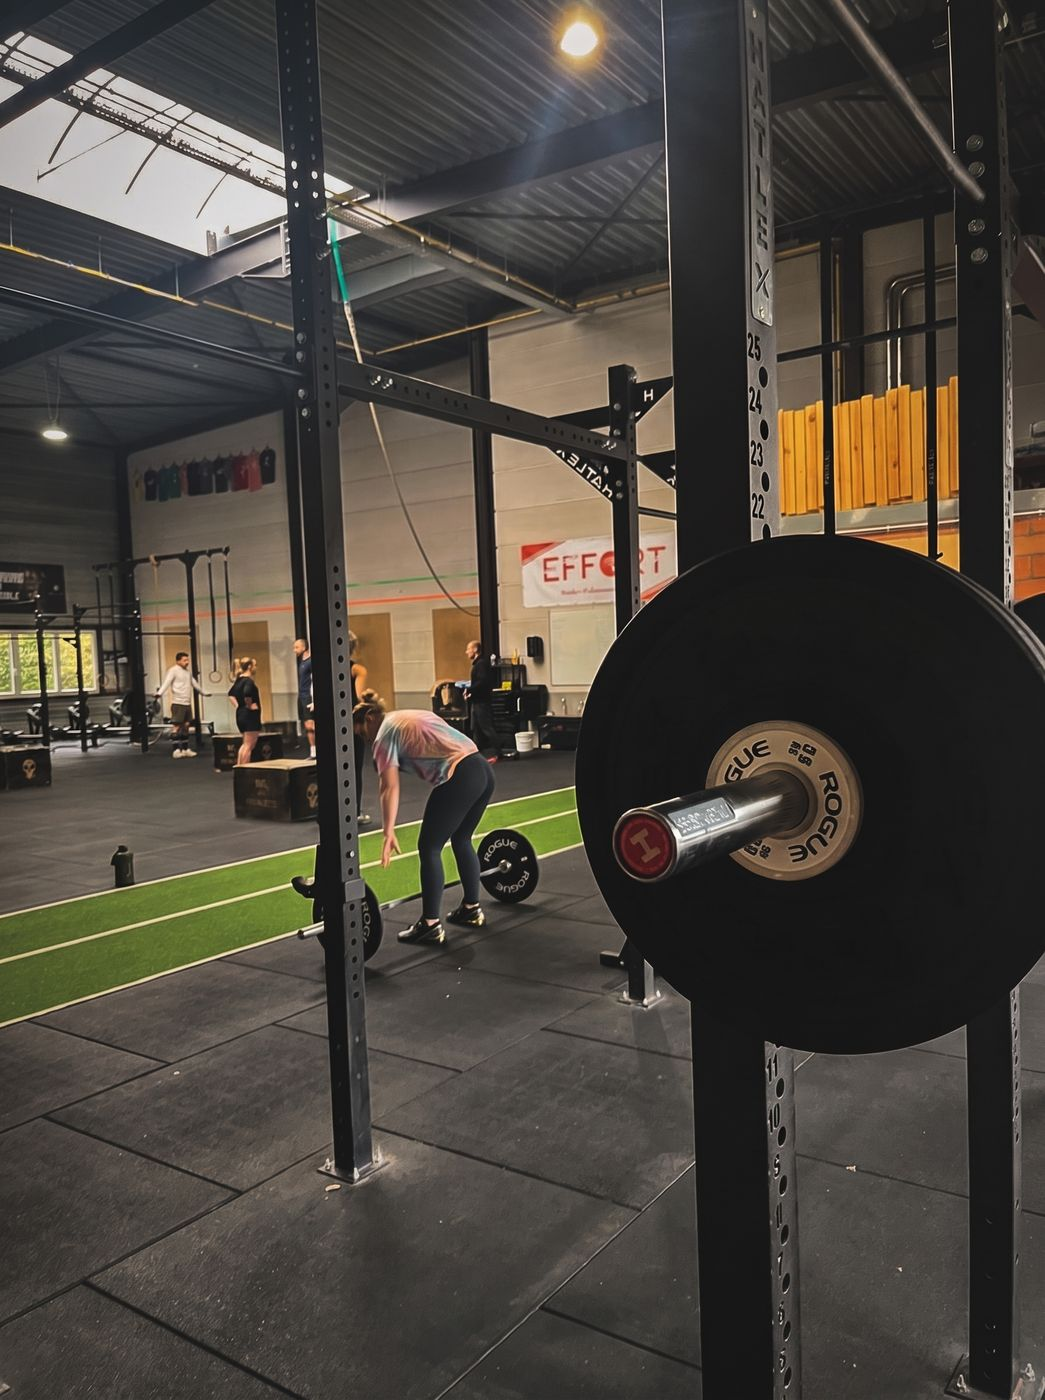
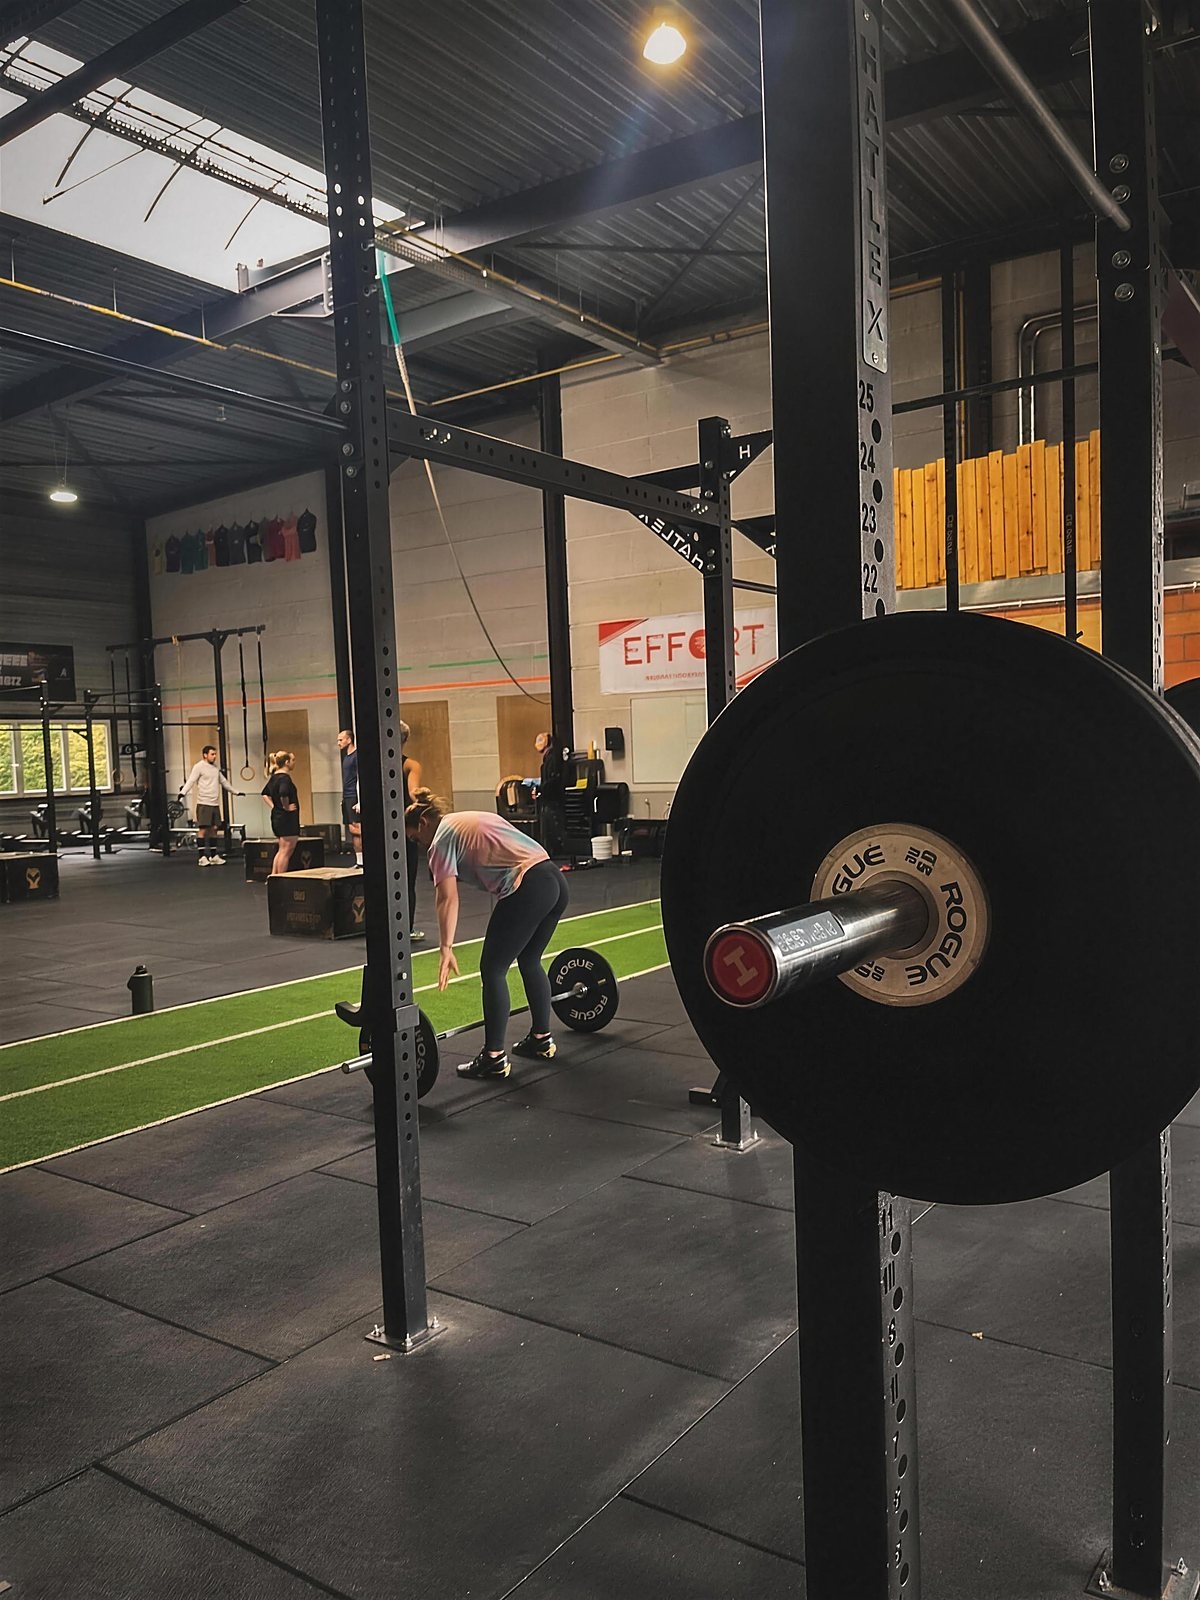
Foto's naar 4K-upscale: scherpte van een professionele camera
Alle 10 gegradeerde foto's via Higgsfield (ByteDance upscaler) naar 4096px
geüpscaled en teruggebracht naar grotere, verscherpte web-formaten
(hero 2560w, portret 1600w, unsharp mask, progressive JPEG q84).
Grading/look ongewijzigd. Cache-bust ?v=3 → ?v=4.

diff --git a/index.html b/index.html
@@ -152,8 +152,8 @@
     <section class="hero">
       <div class="hero__media">
         <picture>
-          <source media="(min-width: 880px)" srcset="assets/img/hero-desktop.jpg?v=3" />
-          <img src="assets/img/hero-mobile.jpg?v=3" alt="Leden trainen aan het rig bij Effort in Kapellen" fetchpriority="high" />
+          <source media="(min-width: 880px)" srcset="assets/img/hero-desktop.jpg?v=4" />
+          <img src="assets/img/hero-mobile.jpg?v=4" alt="Leden trainen aan het rig bij Effort in Kapellen" fetchpriority="high" />
         </picture>
       </div>
       <div class="hero__inner">
@@ -192,7 +192,7 @@
           </div>
           <div class="media-frame media-frame--wide reveal" data-d="1">
             <!-- Vervang door een échte foto van de box / community -->
-            <img src="assets/img/gym.jpg?v=3" alt="De trainingsvloer van Effort België" loading="lazy" />
+            <img src="assets/img/gym.jpg?v=4" alt="De trainingsvloer van Effort België" loading="lazy" />
             <span class="media-frame__tag">De box · Kapellen</span>
           </div>
         </div>
@@ -216,21 +216,21 @@
         </div>
         <div class="grid grid--3">
           <article class="card offer reveal">
-            <div class="offer__img"><img src="assets/img/class-group.jpg?v=3" alt="Groepsles in volle gang" loading="lazy" /></div>
+            <div class="offer__img"><img src="assets/img/class-group.jpg?v=4" alt="Groepsles in volle gang" loading="lazy" /></div>
             <div class="offer__body">
               <h3>Groeps<span>lessen</span></h3>
               <p>Bewegen, sterker worden en op een gezonde manier grenzen verleggen. Constant gevarieerde, functionele bewegingen onder hoge intensiteit — in groepen van max. 10, individueel aangepast.</p>
             </div>
           </article>
           <article class="card offer reveal" data-d="1">
-            <div class="offer__img"><img src="assets/img/barbell.jpg?v=3" alt="Geladen barbell op de gym vloer" loading="lazy" /></div>
+            <div class="offer__img"><img src="assets/img/barbell.jpg?v=4" alt="Geladen barbell op de gym vloer" loading="lazy" /></div>
             <div class="offer__body">
               <h3>Open <span>Gym</span></h3>
               <p>Liever solo? Train vrij tijdens de open gym uren, met dagelijkse toegang. Met of zonder persoonlijk programma — helemaal jouw personal effort.</p>
             </div>
           </article>
           <article class="card offer reveal" data-d="2">
-            <div class="offer__img"><img src="assets/img/grip.jpg?v=3" alt="Leden aan de pull-up bar bij Effort" loading="lazy" /></div>
+            <div class="offer__img"><img src="assets/img/grip.jpg?v=4" alt="Leden aan de pull-up bar bij Effort" loading="lazy" /></div>
             <div class="offer__body">
               <h3>Personal <span>Training</span></h3>
               <p>1-op-1 begeleiding door onze specialisten. In samenwerking met kinepraktijk <strong>Level up</strong> ook voor revalidatie na blessures.</p>
@@ -268,7 +268,7 @@
     <section class="section">
       <div class="container">
         <div class="cta-band reveal">
-          <div class="cta-band__bg"><img src="assets/img/team.jpg?v=3" alt="" loading="lazy" /></div>
+          <div class="cta-band__bg"><img src="assets/img/team.jpg?v=4" alt="" loading="lazy" /></div>
           <div class="cta-band__inner">
             <p class="eyebrow">It's a team effort</p>
             <h2 class="mt-s">Een plek waar iedereen <span class="text-red">zichzelf</span> kan zijn</h2>
@@ -338,7 +338,7 @@
     <section class="section">
       <div class="container">
         <div class="cta-band reveal">
-          <div class="cta-band__bg"><img src="assets/img/kettlebells.jpg?v=3" alt="" loading="lazy" /></div>
+          <div class="cta-band__bg"><img src="assets/img/kettlebells.jpg?v=4" alt="" loading="lazy" /></div>
           <div class="cta-band__inner">
             <p class="eyebrow">Get started</p>
             <h2 class="mt-s">Ben jij er <span class="text-red">klaar</span> voor?</h2>

diff --git a/aanbod.html b/aanbod.html
@@ -96,7 +96,7 @@
 
   <main>
     <section class="page-hero">
-      <div class="page-hero__bg"><img src="assets/img/class-group.jpg?v=3" alt="" /></div>
+      <div class="page-hero__bg"><img src="assets/img/class-group.jpg?v=4" alt="" /></div>
       <div class="container">
         <p class="eyebrow">Aanbod</p>
         <h1>Train op <br /><span class="text-red">jouw</span> manier</h1>
@@ -109,7 +109,7 @@
       <div class="container">
         <div class="split">
           <div class="media-frame media-frame--tall reveal">
-            <img src="assets/img/class-group.jpg?v=3" alt="Groepsles in volle gang" loading="lazy" />
+            <img src="assets/img/class-group.jpg?v=4" alt="Groepsles in volle gang" loading="lazy" />
             <span class="media-frame__tag">Groepslessen · max. 10</span>
           </div>
           <div class="reveal" data-d="1">
@@ -137,7 +137,7 @@
             <a class="link-arrow mt-m" href="prijzen.html">Bekijk de Open Gym formule <span>→</span></a>
           </div>
           <div class="media-frame media-frame--tall reveal" data-d="1">
-            <img src="assets/img/barbell.jpg?v=3" alt="Geladen barbell in de box" loading="lazy" />
+            <img src="assets/img/barbell.jpg?v=4" alt="Geladen barbell in de box" loading="lazy" />
             <span class="media-frame__tag">Open Gym · dagelijks</span>
           </div>
         </div>
@@ -149,7 +149,7 @@
       <div class="container">
         <div class="split">
           <div class="media-frame media-frame--tall reveal">
-            <img src="assets/img/grip.jpg?v=3" alt="Leden aan de pull-up bar bij Effort" loading="lazy" />
+            <img src="assets/img/grip.jpg?v=4" alt="Leden aan de pull-up bar bij Effort" loading="lazy" />
             <span class="media-frame__tag">Personal Training · 1-op-1</span>
           </div>
           <div class="reveal" data-d="1">
@@ -165,7 +165,7 @@
 
     <!-- SOORTEN LESSEN -->
     <section class="section" id="lestypes" style="position:relative; overflow:hidden; background:var(--ink-1); border-top:1px solid var(--line);">
-      <div class="page-hero__bg" style="opacity:.12; z-index:0;"><img src="assets/img/chalk.jpg?v=3" alt="" loading="lazy" /></div>
+      <div class="page-hero__bg" style="opacity:.12; z-index:0;"><img src="assets/img/chalk.jpg?v=4" alt="" loading="lazy" /></div>
       <div class="container" style="position:relative; z-index:2;">
         <div class="section-head reveal">
           <p class="eyebrow">Soorten lessen</p>
@@ -206,7 +206,7 @@
     <section class="section section--tight">
       <div class="container">
         <div class="cta-band reveal">
-          <div class="cta-band__bg"><img src="assets/img/kettlebells.jpg?v=3" alt="" loading="lazy" /></div>
+          <div class="cta-band__bg"><img src="assets/img/kettlebells.jpg?v=4" alt="" loading="lazy" /></div>
           <div class="cta-band__inner">
             <p class="eyebrow">Get started</p>
             <h2 class="mt-s">Probeer het gewoon eens</h2>

diff --git a/crossfit-wuustwezel.html b/crossfit-wuustwezel.html
@@ -96,7 +96,7 @@
 
   <main>
     <section class="page-hero">
-      <div class="page-hero__bg"><img src="assets/img/gym.jpg?v=3" alt="" /></div>
+      <div class="page-hero__bg"><img src="assets/img/gym.jpg?v=4" alt="" /></div>
       <div class="container">
         <p class="eyebrow">Regio · Wuustwezel</p>
         <h1>CrossFit <br /><span class="text-red">vlakbij Wuustwezel</span></h1>
@@ -113,7 +113,7 @@
       <div class="container">
         <div class="split">
           <div class="media-frame media-frame--tall reveal">
-            <img src="assets/img/class-group.jpg?v=3" alt="Groepsles bij Effort, de CrossFit-box op de drempel van Wuustwezel" loading="lazy" />
+            <img src="assets/img/class-group.jpg?v=4" alt="Groepsles bij Effort, de CrossFit-box op de drempel van Wuustwezel" loading="lazy" />
             <span class="media-frame__tag">Effort · Gooreind</span>
           </div>
           <div class="reveal" data-d="1">
@@ -139,7 +139,7 @@
             <a class="link-arrow mt-m" href="get-started.html">Zo verloopt je eerste les <span>→</span></a>
           </div>
           <div class="media-frame media-frame--tall reveal" data-d="1">
-            <img src="assets/img/grip.jpg?v=3" alt="Leden aan de pull-up bar bij Effort" loading="lazy" />
+            <img src="assets/img/grip.jpg?v=4" alt="Leden aan de pull-up bar bij Effort" loading="lazy" />
             <span class="media-frame__tag">Op jouw niveau</span>
           </div>
         </div>

diff --git a/crossfit-kalmthout.html b/crossfit-kalmthout.html
@@ -96,7 +96,7 @@
 
   <main>
     <section class="page-hero">
-      <div class="page-hero__bg"><img src="assets/img/gym.jpg?v=3" alt="" /></div>
+      <div class="page-hero__bg"><img src="assets/img/gym.jpg?v=4" alt="" /></div>
       <div class="container">
         <p class="eyebrow">Regio · Kalmthout</p>
         <h1>CrossFit <br /><span class="text-red">vlakbij Kalmthout</span></h1>
@@ -113,7 +113,7 @@
       <div class="container">
         <div class="split">
           <div class="media-frame media-frame--tall reveal">
-            <img src="assets/img/class-group.jpg?v=3" alt="Groepsles bij Effort, de CrossFit-box vlakbij Kalmthout" loading="lazy" />
+            <img src="assets/img/class-group.jpg?v=4" alt="Groepsles bij Effort, de CrossFit-box vlakbij Kalmthout" loading="lazy" />
             <span class="media-frame__tag">Effort · Gooreind</span>
           </div>
           <div class="reveal" data-d="1">
@@ -139,7 +139,7 @@
             <a class="link-arrow mt-m" href="get-started.html">Zo verloopt je eerste les <span>→</span></a>
           </div>
           <div class="media-frame media-frame--tall reveal" data-d="1">
-            <img src="assets/img/grip.jpg?v=3" alt="Leden aan de pull-up bar bij Effort" loading="lazy" />
+            <img src="assets/img/grip.jpg?v=4" alt="Leden aan de pull-up bar bij Effort" loading="lazy" />
             <span class="media-frame__tag">Op jouw niveau</span>
           </div>
         </div>

diff --git a/crossfit-brasschaat.html b/crossfit-brasschaat.html
@@ -96,7 +96,7 @@
 
   <main>
     <section class="page-hero">
-      <div class="page-hero__bg"><img src="assets/img/gym.jpg?v=3" alt="" /></div>
+      <div class="page-hero__bg"><img src="assets/img/gym.jpg?v=4" alt="" /></div>
       <div class="container">
         <p class="eyebrow">Regio · Brasschaat</p>
         <h1>CrossFit <br /><span class="text-red">voor Brasschaat</span></h1>
@@ -113,7 +113,7 @@
       <div class="container">
         <div class="split">
           <div class="media-frame media-frame--tall reveal">
-            <img src="assets/img/class-group.jpg?v=3" alt="Groepsles bij Effort, de CrossFit-box voor Brasschaat" loading="lazy" />
+            <img src="assets/img/class-group.jpg?v=4" alt="Groepsles bij Effort, de CrossFit-box voor Brasschaat" loading="lazy" />
             <span class="media-frame__tag">Effort · Gooreind</span>
           </div>
           <div class="reveal" data-d="1">
@@ -139,7 +139,7 @@
             <a class="link-arrow mt-m" href="get-started.html">Zo verloopt je eerste les <span>→</span></a>
           </div>
           <div class="media-frame media-frame--tall reveal" data-d="1">
-            <img src="assets/img/grip.jpg?v=3" alt="Leden aan de pull-up bar bij Effort" loading="lazy" />
+            <img src="assets/img/grip.jpg?v=4" alt="Leden aan de pull-up bar bij Effort" loading="lazy" />
             <span class="media-frame__tag">Op jouw niveau</span>
           </div>
         </div>

diff --git a/prijzen.html b/prijzen.html
@@ -102,7 +102,7 @@
 
   <main>
     <section class="page-hero">
-      <div class="page-hero__bg"><img src="assets/img/chalk.jpg?v=3" alt="" /></div>
+      <div class="page-hero__bg"><img src="assets/img/chalk.jpg?v=4" alt="" /></div>
       <div class="container">
         <p class="eyebrow">Prijzen</p>
         <h1>Kies jouw <br /><span class="text-red">effort</span></h1>
@@ -184,7 +184,7 @@
     <section class="section section--tight">
       <div class="container">
         <div class="cta-band reveal">
-          <div class="cta-band__bg"><img src="assets/img/barbell.jpg?v=3" alt="" loading="lazy" /></div>
+          <div class="cta-band__bg"><img src="assets/img/barbell.jpg?v=4" alt="" loading="lazy" /></div>
           <div class="cta-band__inner">
             <p class="eyebrow">Get started</p>
             <h2 class="mt-s">Klaar om te <span class="text-red">starten</span>?</h2>

diff --git a/welkom.html b/welkom.html
@@ -65,7 +65,7 @@
 
   <main>
     <section class="page-hero">
-      <div class="page-hero__bg"><img src="assets/img/class-group.jpg?v=3" alt="" /></div>
+      <div class="page-hero__bg"><img src="assets/img/class-group.jpg?v=4" alt="" /></div>
       <div class="container">
         <p class="eyebrow">Welkom — je bent uitgenodigd</p>
         <h1>Je kreeg een <span class="text-red">gratis les</span> cadeau.</h1>
@@ -115,7 +115,7 @@
       <div class="container">
         <div class="split">
           <div class="media-frame media-frame--tall reveal">
-            <img src="assets/img/gym.jpg?v=3" alt="Trainen bij Effort in Kapellen" loading="lazy" />
+            <img src="assets/img/gym.jpg?v=4" alt="Trainen bij Effort in Kapellen" loading="lazy" />
             <span class="media-frame__tag">Iedereen begint ooit</span>
           </div>
           <div class="reveal" data-d="1">

diff --git a/get-started.html b/get-started.html
@@ -102,7 +102,7 @@
 
   <main>
     <section class="page-hero">
-      <div class="page-hero__bg"><img src="assets/img/kit.jpg?v=3" alt="" /></div>
+      <div class="page-hero__bg"><img src="assets/img/kit.jpg?v=4" alt="" /></div>
       <div class="container">
         <p class="eyebrow">Get started</p>
         <h1>Ben jij er <br /><span class="text-red">klaar</span> voor?</h1>
@@ -134,7 +134,7 @@
       <div class="container">
         <div class="split">
           <div class="media-frame media-frame--tall reveal">
-            <img src="assets/img/kit.jpg?v=3" alt="Samen trainen tijdens een les bij Effort" loading="lazy" />
+            <img src="assets/img/kit.jpg?v=4" alt="Samen trainen tijdens een les bij Effort" loading="lazy" />
             <span class="media-frame__tag">Klaar voor de start</span>
           </div>
           <div class="reveal" data-d="1">

diff --git a/team.html b/team.html
@@ -96,7 +96,7 @@
 
   <main>
     <section class="page-hero">
-      <div class="page-hero__bg"><img src="assets/img/team.jpg?v=3" alt="" /></div>
+      <div class="page-hero__bg"><img src="assets/img/team.jpg?v=4" alt="" /></div>
       <div class="container">
         <p class="eyebrow">Het team</p>
         <h1>Coaches met <br /><span class="text-red">karakter</span></h1>
@@ -201,7 +201,7 @@
     <section class="section section--tight">
       <div class="container">
         <div class="cta-band reveal">
-          <div class="cta-band__bg"><img src="assets/img/class-group.jpg?v=3" alt="" loading="lazy" /></div>
+          <div class="cta-band__bg"><img src="assets/img/class-group.jpg?v=4" alt="" loading="lazy" /></div>
           <div class="cta-band__inner">
             <p class="eyebrow">Get started</p>
             <h2 class="mt-s">Train mee met ons team</h2>
